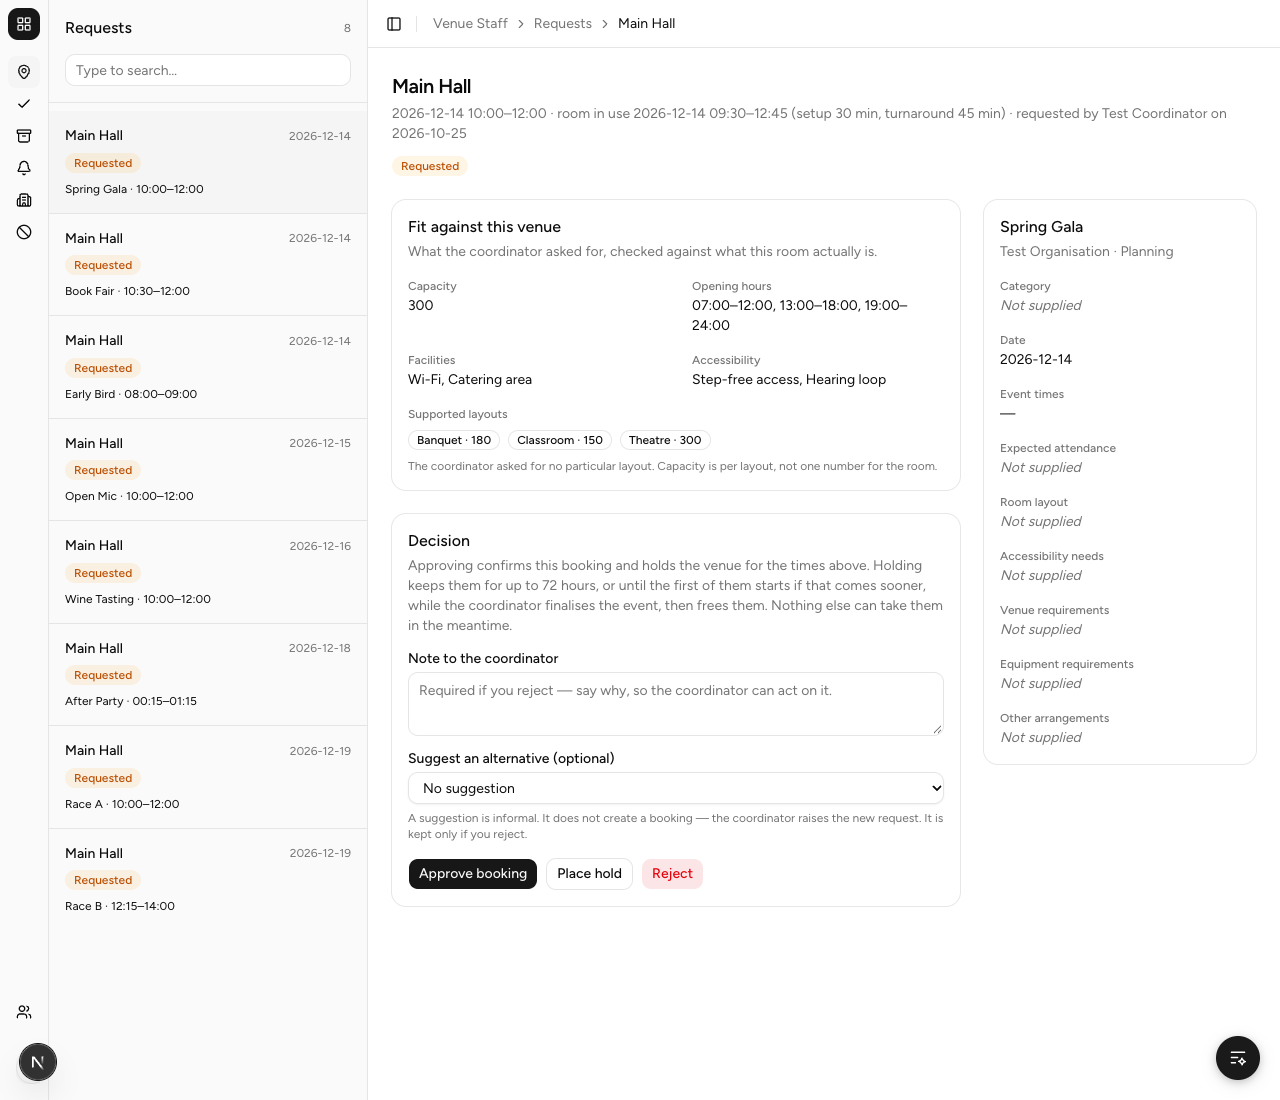
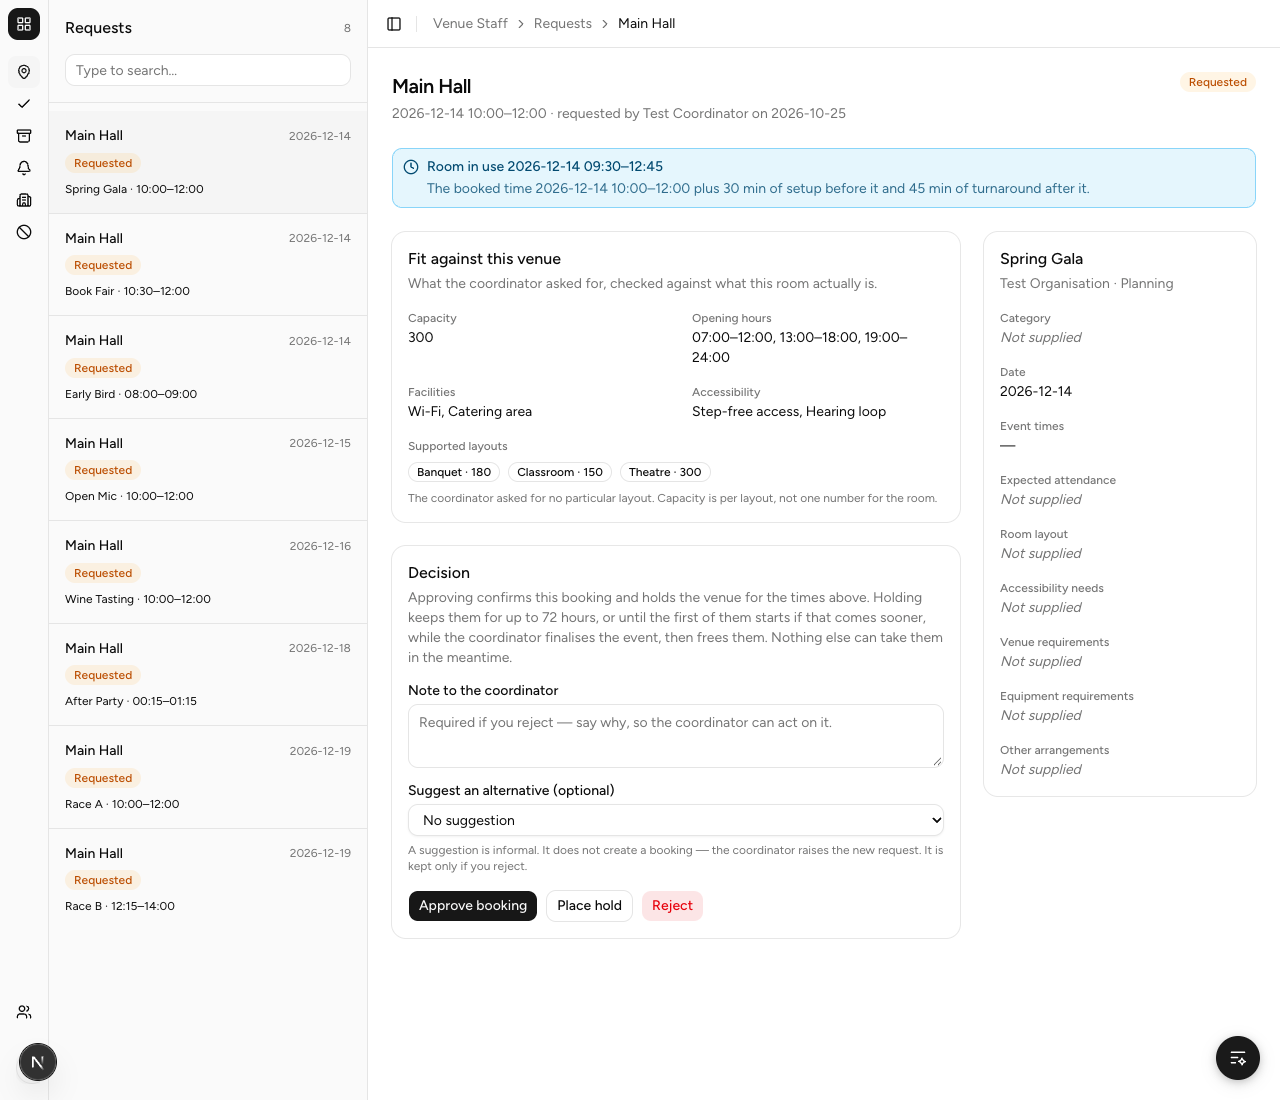
feat(app): show the room-in-use time as a light-blue box on a booking page (SPM-19)

Changed region(s): [[0.2812, 0.0618, 1.0, 0.7109], [0.3125, 0.4945, 0.7188, 0.8345]]

diff --git a/src/app/staff/venue/booking-detail.tsx b/src/app/staff/venue/booking-detail.tsx
@@ -20,7 +20,7 @@ import type { BookingReviewDetail } from "@/core/use-cases/review-booking-reques
 import { FieldList } from "../field-list";
 import { detailCrumbs, type DetailOrigin } from "../detail-origin";
 import { formatHoldExpiry } from "../hold-expiry";
-import { formatOccupied, formatTimes } from "../slot-label";
+import { formatTimes, roomInUse } from "../slot-label";
 import { PageHeader, StaffShell, type VenueSection } from "../staff-shell";
 import { StatusBadge } from "../status-badge";
 import { DecisionForm } from "./[id]/decision-form";
@@ -102,8 +102,8 @@ export async function BookingDetail({
   const decided = booking.status !== "Requested";
   const { section, queueLabel, queueHref } = sectionOf(booking.status);
   const times = formatTimes(booking.times);
-  // SPM-19: what the booking really takes from the room, next to the venue's name.
-  const occupied = formatOccupied(booking.times, venue);
+  // SPM-19: what the booking really takes from the room, shown under the venue's name.
+  const occupied = roomInUse(booking.times, venue);
   const onHold = booking.status === "Tentative Hold" && booking.holdExpiresAt !== null;
   // SPM-253: a hold that ran out and was marked Expired. Its expiry stays on record.
   const expired = booking.status === "Expired" && booking.holdExpiresAt !== null;
@@ -118,11 +118,25 @@ export async function BookingDetail({
     >
       <PageHeader
         title={booking.venueLocation}
-        description={`${times}${occupied === null ? "" : ` · ${occupied}`} · requested by ${booking.requestedByName} on ${formatInstantDate(booking.requestedAt)}${
+        description={`${times} · requested by ${booking.requestedByName} on ${formatInstantDate(booking.requestedAt)}${
           onHold ? ` · on hold until ${formatHoldExpiry(booking.holdExpiresAt!)}` : ""
         }`}
         actions={<StatusBadge status={booking.status} />}
       />
+
+      {occupied === null ? null : (
+        <Alert
+          role="status"
+          className="border-sky-500/40 bg-sky-500/10 text-sky-900 dark:text-sky-200"
+        >
+          <ClockIcon />
+          <AlertTitle>Room in use {occupied.inUse}</AlertTitle>
+          <AlertDescription className="text-sky-900/80 dark:text-sky-200/80">
+            The booked time {times} plus {occupied.setup} min of setup before it and{" "}
+            {occupied.turnaround} min of turnaround after it.
+          </AlertDescription>
+        </Alert>
+      )}
 
       <div className="grid gap-6 lg:grid-cols-3">
         <div className="min-w-0 space-y-6 lg:col-span-2">

diff --git a/src/app/staff/slot-label.test.ts b/src/app/staff/slot-label.test.ts
@@ -1,6 +1,6 @@
 import { describe, expect, it } from "vitest";
 
-import { formatOccupied, slotLabel } from "./slot-label";
+import { roomInUse, slotLabel } from "./slot-label";
 
 describe("slotLabel (SPM-46)", () => {
   it("names each slot with its hours", () => {
@@ -13,24 +13,26 @@ describe("slotLabel (SPM-46)", () => {
   });
 });
 
-describe("formatOccupied (SPM-19)", () => {
+describe("roomInUse (SPM-19)", () => {
   const times = [{ date: "2026-12-14", start: "10:00", end: "12:00" }];
 
   it("names the time the room is used with setup and turnaround, and each value, for Main Hall 30 and 45", () => {
-    expect(formatOccupied(times, { setupMinutes: 30, turnaroundMinutes: 45 })).toBe(
-      "room in use 2026-12-14 09:30–12:45 (setup 30 min, turnaround 45 min)",
-    );
+    expect(roomInUse(times, { setupMinutes: 30, turnaroundMinutes: 45 })).toEqual({
+      inUse: "2026-12-14 09:30–12:45",
+      setup: 30,
+      turnaround: 45,
+    });
   });
 
   it("splits a window that runs past midnight by date", () => {
     expect(
-      formatOccupied([{ date: "2026-12-17", start: "22:00", end: "24:00" }], { setupMinutes: 30, turnaroundMinutes: 45 }),
-    ).toBe("room in use 2026-12-17 21:30–24:00, 2026-12-18 00:00–00:45 (setup 30 min, turnaround 45 min)");
+      roomInUse([{ date: "2026-12-17", start: "22:00", end: "24:00" }], { setupMinutes: 30, turnaroundMinutes: 45 })?.inUse,
+    ).toBe("2026-12-17 21:30–24:00, 2026-12-18 00:00–00:45");
   });
 
   it("says nothing for a venue with none set, or 0 and 0, since nothing is added", () => {
-    expect(formatOccupied(times, { setupMinutes: null, turnaroundMinutes: null })).toBeNull();
-    expect(formatOccupied(times, { setupMinutes: 0, turnaroundMinutes: 0 })).toBeNull();
-    expect(formatOccupied(times, null)).toBeNull();
+    expect(roomInUse(times, { setupMinutes: null, turnaroundMinutes: null })).toBeNull();
+    expect(roomInUse(times, { setupMinutes: 0, turnaroundMinutes: 0 })).toBeNull();
+    expect(roomInUse(times, null)).toBeNull();
   });
 });

diff --git a/src/app/staff/slot-label.ts b/src/app/staff/slot-label.ts
@@ -17,18 +17,18 @@ export function formatTimes(times: readonly TimeRangeOnDate[]): string {
 }
 
 /**
- * SPM-19: the time a booking really takes from its venue, setup and turnaround included, with
- * the two values, e.g. "room in use 2026-12-14 09:30–12:45 (setup 30 min, turnaround 45 min)".
- * Null when the venue adds nothing (none set, or 0 and 0), so there is nothing more to say.
+ * SPM-19: the time a booking really takes from its venue, setup and turnaround included, e.g.
+ * `{ inUse: "2026-12-14 09:30–12:45", setup: 30, turnaround: 45 }`. Null when the venue adds
+ * nothing (none set, or 0 and 0), so there is nothing more to say.
  */
-export function formatOccupied(
+export function roomInUse(
   times: readonly TimeRangeOnDate[],
   venue: Partial<VenueBuffers> | null,
-): string | null {
+): { readonly inUse: string; readonly setup: number; readonly turnaround: number } | null {
   const { setup, turnaround } = bufferMinutes(venue ?? {});
   if (setup === 0 && turnaround === 0) return null;
   const windows = times.flatMap((time) => paddedWindows(time, { setup, turnaround }));
-  return `room in use ${formatTimes(windows)} (setup ${setup} min, turnaround ${turnaround} min)`;
+  return { inUse: formatTimes(windows), setup, turnaround };
 }
 
 /** The slot codes as a list, or a dash when there are none. */

diff --git a/docs/testing/VENUE_PADDING_MANUAL_TESTS.md b/docs/testing/VENUE_PADDING_MANUAL_TESTS.md
@@ -60,12 +60,12 @@ each result; the database scripts ran TC-VPAD-007. Run 001 to 006 in order on a 
 **Scenario:** Charity Run ends at 09:15, and Main Hall needs 45 minutes to be turned around, so the room is busy until 10:00. Spring Gala is 10:00–12:00 but its setup starts at 09:30. The booked times do not touch, but the padded times overlap by 30 minutes.
 
 **Steps:**
-1. As Venue Staff, open **Spring Gala** (Main Hall, Mon 14 Dec 2026, 10:00–12:00) from **Requests**, and read the line under **Main Hall**.
+1. As Venue Staff, open **Spring Gala** (Main Hall, Mon 14 Dec 2026, 10:00–12:00) from **Requests**, and read the box under **Main Hall**.
 2. Press **Approve booking**.
 3. Look at the booking's status and the buttons.
 
 **Expected Result:**
-- Step 1: the line reads *2026-12-14 10:00–12:00 · room in use 2026-12-14 09:30–12:45 (setup 30 min, turnaround 45 min) · requested by Test Coordinator …*. The same line appears on every booking page (Requests, Decided and Archive) for a venue with setup or turnaround, and is left out for one with none.
+- Step 1: a light-blue box under the title reads *Room in use 2026-12-14 09:30–12:45*, then *The booked time 2026-12-14 10:00–12:00 plus 30 min of setup before it and 45 min of turnaround after it.* The same box appears on every booking page (Requests, Decided and Archive) for a venue with setup or turnaround, and is left out for one with none.
 - Step 2: refused with *This booking is blocked by Charity Run on 2026-12-14, 09:30–10:00, counting setup and turnaround time. Choose other times or another venue.*
 - Step 3: the booking is still **Requested**, and **Reject** is still available.
 
